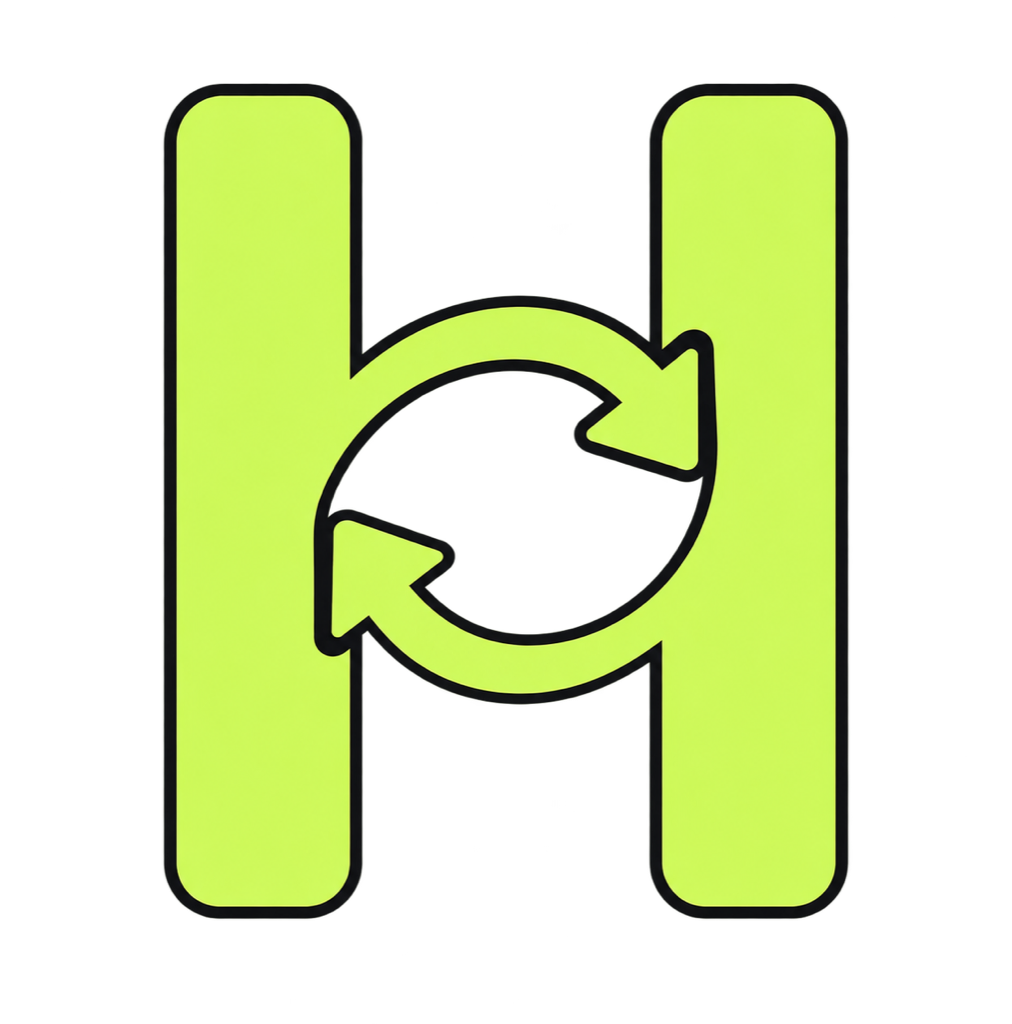
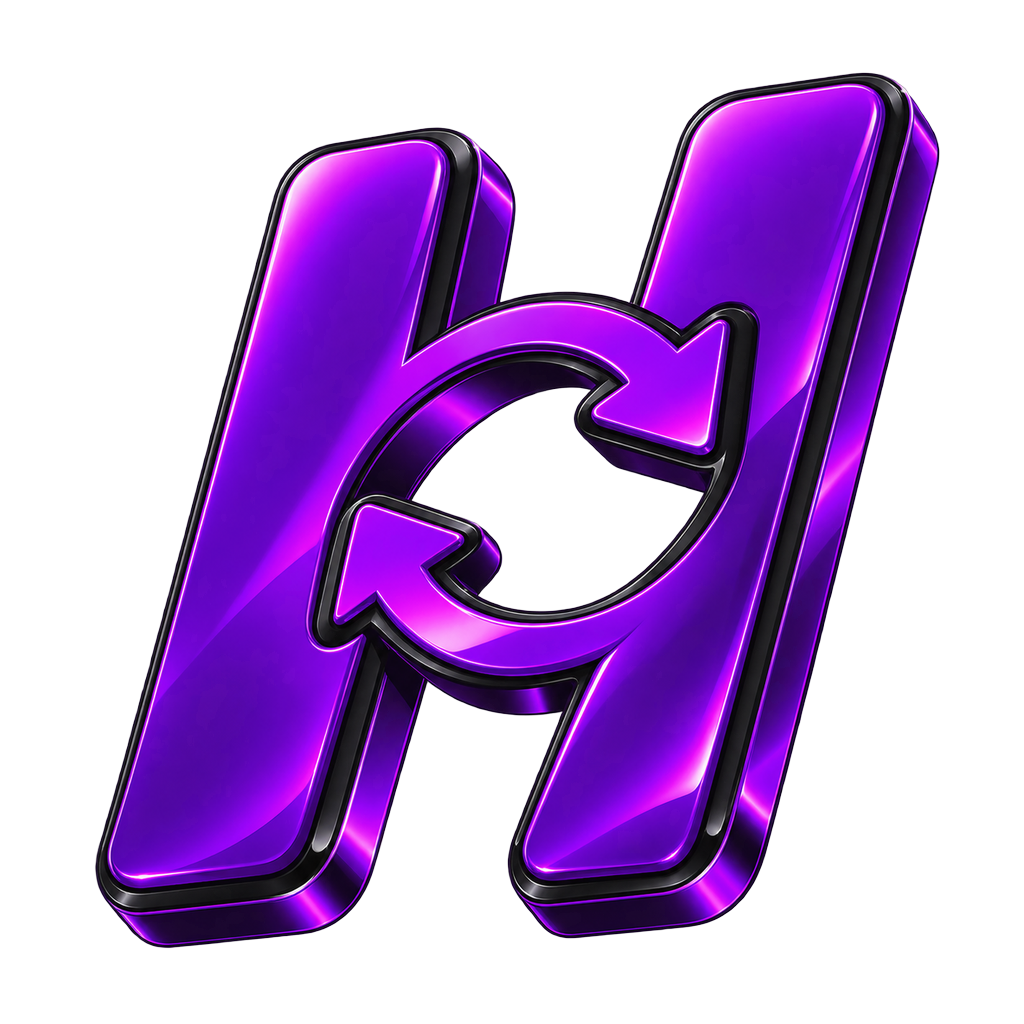
changed color to purple

diff --git a/src/styles.css b/src/styles.css
@@ -1,36 +1,39 @@
 
-/* Lime (#cef959) and the near-black tile are sampled straight from logo.png.
-   Dark is the base theme so the window never flashes white before the renderer
-   applies a stored preference. */
+/* Electric violet (#a301fa) and the violet-black bevel are sampled straight from
+   logo.png. Dark is the base theme so the window never flashes white before the
+   renderer applies a stored preference. */
 :root {
   color-scheme: dark;
   font-family: Inter, ui-sans-serif, system-ui, -apple-system, BlinkMacSystemFont, sans-serif;
   font-synthesis: none;
-  --bg: #0c0d0e;
-  --surface: #16171a;
-  --surface-raised: #1b1d20;
-  --surface-soft: #212429;
-  --text: #f2f4f1;
-  --muted: #9ea4a2;
-  --subtle: #6c7275;
+  --bg: #0b0810;
+  --surface: #15111d;
+  --surface-raised: #1a1524;
+  --surface-soft: #201a2c;
+  --text: #f4f1f8;
+  --muted: #a29aae;
+  --subtle: #736c7f;
   --line: rgba(255, 255, 255, .07);
   --line-strong: rgba(255, 255, 255, .15);
-  --fill: #cef959;
-  --fill-bright: #dcff7b;
-  --brand: #cef959;
-  --brand-soft: rgba(206, 249, 89, .13);
-  --accent-ink: #12160a;
-  --violet: #8b7cff;
-  --violet-soft: rgba(139, 124, 255, .16);
-  --success: #a8e75f;
-  --success-soft: rgba(168, 231, 95, .13);
+  --fill: #a301fa;
+  --fill-bright: #b833ff;
+  /* The fill is dark enough to carry white text, so --accent-ink is near-white
+     and --brand is lifted well above --fill: --brand is only ever ink or an icon
+     on a dark surface, where #a301fa would not clear 4.5:1. */
+  --brand: #c77dff;
+  --brand-soft: rgba(199, 125, 255, .14);
+  --accent-ink: #fdf9ff;
+  --aqua: #56d8f5;
+  --aqua-soft: rgba(86, 216, 245, .15);
+  --success: #57e08d;
+  --success-soft: rgba(87, 224, 141, .14);
   --danger: #ff6b81;
   --danger-soft: rgba(255, 107, 129, .14);
   --warning: #f2a03f;
   --warning-soft: rgba(242, 160, 63, .14);
-  --shadow: 0 28px 64px rgba(0, 0, 0, .55);
-  --small-shadow: 0 12px 28px rgba(0, 0, 0, .34);
-  --glow: 0 0 0 1px rgba(206, 249, 89, .26), 0 16px 40px rgba(206, 249, 89, .12);
+  --shadow: 0 28px 64px rgba(7, 2, 16, .62);
+  --small-shadow: 0 12px 28px rgba(7, 2, 16, .42);
+  --glow: 0 0 0 1px rgba(163, 1, 250, .34), 0 16px 40px rgba(163, 1, 250, .2);
   --radius-xl: 30px;
   --radius-lg: 24px;
   --radius-md: 18px;
@@ -39,28 +42,28 @@
 
 :root[data-theme='light'] {
   color-scheme: light;
-  --bg: #f4f5f2;
+  --bg: #f6f3fb;
   --surface: #ffffff;
   --surface-raised: #ffffff;
-  --surface-soft: #f1f3ed;
-  --text: #14170f;
-  --muted: #5d6458;
-  --subtle: #8a9184;
-  --line: #e5e8df;
-  --line-strong: #d2d7c9;
-  --brand: #5c7a12;
-  --brand-soft: rgba(122, 163, 24, .13);
-  --violet: #6a5ae0;
-  --violet-soft: rgba(106, 90, 224, .12);
-  --success: #4e8f1f;
-  --success-soft: rgba(78, 143, 31, .12);
+  --surface-soft: #f2edf9;
+  --text: #17111f;
+  --muted: #5e5670;
+  --subtle: #8b8399;
+  --line: #e7e1f0;
+  --line-strong: #d6cee4;
+  --brand: #7a12d4;
+  --brand-soft: rgba(122, 18, 212, .12);
+  --aqua: #0d7f9c;
+  --aqua-soft: rgba(13, 127, 156, .12);
+  --success: #1f8f4e;
+  --success-soft: rgba(31, 143, 78, .12);
   --danger: #cf4460;
   --danger-soft: rgba(207, 68, 96, .1);
   --warning: #b4700f;
   --warning-soft: rgba(180, 112, 15, .12);
-  --shadow: 0 24px 54px rgba(28, 38, 20, .1);
-  --small-shadow: 0 10px 24px rgba(28, 38, 20, .07);
-  --glow: 0 0 0 1px rgba(122, 163, 24, .22), 0 14px 32px rgba(122, 163, 24, .14);
+  --shadow: 0 24px 54px rgba(32, 16, 54, .12);
+  --small-shadow: 0 10px 24px rgba(32, 16, 54, .08);
+  --glow: 0 0 0 1px rgba(122, 18, 212, .22), 0 14px 32px rgba(122, 18, 212, .16);
 }
 * { box-sizing: border-box; }
 html, body, #root { height: 100%; margin: 0; }
@@ -76,12 +79,12 @@ button:focus-visible, select:focus-visible, [role='button']:focus-visible { outl
   display: grid;
   grid-template-rows: auto minmax(0, 1fr);
   overflow: hidden;
-  background: radial-gradient(46rem 30rem at 8% -8%, rgba(206, 249, 89, .07), transparent 70%), var(--bg);
+  background: radial-gradient(46rem 30rem at 8% -8%, rgba(163, 1, 250, .13), transparent 70%), var(--bg);
 }
 .app-chrome { height: 70px; padding: 0 clamp(18px, 3.6vw, 46px); display: flex; align-items: center; justify-content: space-between; gap: 16px; background: color-mix(in srgb, var(--bg) 82%, transparent); backdrop-filter: blur(20px); border-bottom: 1px solid var(--line); -webkit-app-region: drag; z-index: 10; }
 .brand, .chrome-actions, .icon-button, .pill-button, .ffmpeg-status { -webkit-app-region: no-drag; }
 .brand { display: flex; align-items: center; gap: 13px; min-width: 0; }
-.brand-mark { width: 44px; height: 44px; flex: 0 0 auto; border-radius: var(--radius-sm); overflow: hidden; border: 1px solid var(--line); background: #131314; }
+.brand-mark { width: 44px; height: 44px; flex: 0 0 auto; border-radius: var(--radius-sm); overflow: hidden; border: 1px solid var(--line); background: #120a1c; }
 .brand-mark img { display: block; width: 100%; height: 100%; object-fit: cover; }
 .brand > div:last-child { display: grid; gap: 1px; min-width: 0; }
 .brand strong { font: 700 15px/1.2 ui-rounded, system-ui, sans-serif; letter-spacing: -.2px; }
@@ -117,8 +120,11 @@ h1 { margin: 0; font: 800 clamp(23px, 2.2vw, 29px)/1.1 ui-rounded, system-ui, sa
 .stat-row { display: grid; grid-template-columns: repeat(3, minmax(0, 1fr)); gap: 13px; }
 .stat-card { position: relative; overflow: hidden; min-height: 108px; padding: 14px 16px; display: grid; grid-template-rows: auto 1fr auto; gap: 6px; border: 1px solid var(--line); border-radius: var(--radius-lg); background: var(--surface); }
 .stat-card::after { content: ''; position: absolute; top: -70px; right: -50px; width: 190px; height: 190px; border-radius: 50%; background: radial-gradient(circle, var(--brand-soft), transparent 68%); pointer-events: none; }
-.stat-card.featured { border-color: transparent; background: linear-gradient(150deg, var(--fill-bright), var(--fill) 58%, color-mix(in srgb, var(--fill) 82%, #7fa32a)); color: var(--accent-ink); box-shadow: 0 20px 44px rgba(206, 249, 89, .16); }
-.stat-card.featured::after { background: radial-gradient(circle, rgba(255, 255, 255, .34), transparent 66%); }
+/* The featured card is the largest block of brand colour on screen, so it runs
+   its own darker stops rather than --fill/--fill-bright, which are tuned for
+   small controls and would glare at this size. */
+.stat-card.featured { border-color: transparent; background: linear-gradient(150deg, #7b1fc7, #61129f 58%, #3d0177); color: var(--accent-ink); box-shadow: 0 20px 44px rgba(163, 1, 250, .2); }
+.stat-card.featured::after { background: radial-gradient(circle, rgba(255, 255, 255, .2), transparent 66%); }
 .stat-head { display: flex; align-items: center; gap: 11px; }
 .stat-chip { width: 34px; height: 34px; flex: 0 0 auto; display: grid; place-items: center; border-radius: 999px; color: var(--brand); background: var(--brand-soft); }
 .featured .stat-chip { color: var(--fill); background: var(--accent-ink); }
@@ -132,7 +138,7 @@ h1 { margin: 0; font: 800 clamp(23px, 2.2vw, 29px)/1.1 ui-rounded, system-ui, sa
 .stat-bars { display: flex; align-items: flex-end; gap: 3px; height: 26px; flex: 0 0 auto; }
 .stat-bars i { width: 5px; border-radius: 999px; background: var(--brand-soft); }
 .stat-bars i.peak { background: var(--brand); }
-.featured .stat-bars i { background: rgba(18, 22, 10, .18); }
+.featured .stat-bars i { background: rgba(255, 255, 255, .28); }
 .featured .stat-bars i.peak { background: var(--accent-ink); }
 .content-grid { flex: 1; min-height: 0; display: grid; grid-template-columns: minmax(0, 1fr) 340px; gap: 14px; align-items: stretch; }
 .main-column { min-width: 0; min-height: 0; display: grid; grid-template-rows: auto minmax(0, 1fr); gap: 14px; }
@@ -153,7 +159,7 @@ h2 { margin: 0; font: 700 15px/1.3 ui-rounded, system-ui, sans-serif; letter-spa
 /* With an empty queue the zone owns the rest of the panel, so the invitation to
    add files is the only thing in it. */
 .dropzone.empty { grid-row: 2 / -1; grid-template-columns: minmax(0, 1fr); grid-auto-rows: min-content; align-content: center; justify-items: center; text-align: center; gap: 12px; padding: 26px; background: radial-gradient(24rem 14rem at 50% 0%, var(--brand-soft), transparent 74%), var(--surface-soft); }
-.drop-art { width: 78px; height: 78px; border-radius: 24px; overflow: hidden; border: 1px solid var(--line); background: #131314; }
+.drop-art { width: 78px; height: 78px; border-radius: 24px; overflow: hidden; border: 1px solid var(--line); background: #120a1c; }
 .drop-art img { display: block; width: 100%; height: 100%; object-fit: cover; }
 .upload-icon { width: 46px; height: 46px; flex: 0 0 auto; border-radius: 999px; display: grid; place-items: center; color: var(--brand); background: var(--brand-soft); }
 .dropzone.compact .upload-icon { width: 42px; height: 42px; }
@@ -172,7 +178,7 @@ h2 { margin: 0; font: 700 15px/1.3 ui-rounded, system-ui, sans-serif; letter-spa
 .queue-row:hover { border-color: var(--line-strong); transform: translateY(-1px); box-shadow: var(--small-shadow); }
 .file-kind { width: 46px; height: 46px; display: grid; place-items: center; border-radius: 999px; }
 .kind-video { color: var(--brand); background: var(--brand-soft); }
-.kind-audio { color: var(--violet); background: var(--violet-soft); }
+.kind-audio { color: var(--aqua); background: var(--aqua-soft); }
 .kind-image { color: var(--warning); background: var(--warning-soft); }
 .file-info { min-width: 0; }
 .file-title { display: flex; align-items: center; gap: 9px; }
@@ -233,12 +239,12 @@ h2 { margin: 0; font: 700 15px/1.3 ui-rounded, system-ui, sans-serif; letter-spa
 .folder-picker svg:last-child { color: var(--subtle); }
 
 .about-dialog { width: min(88vw, 396px); padding: 0; border: 0; background: transparent; color: var(--text); }
-.about-dialog::backdrop { background: rgba(4, 5, 6, .68); backdrop-filter: blur(5px); }
-.dialog-inner { position: relative; display: grid; gap: 16px; padding: 26px 24px 24px; border: 1px solid var(--line-strong); border-radius: var(--radius-xl); background: var(--surface); box-shadow: 0 34px 90px rgba(0, 0, 0, .55); }
+.about-dialog::backdrop { background: rgba(6, 2, 14, .7); backdrop-filter: blur(5px); }
+.dialog-inner { position: relative; display: grid; gap: 16px; padding: 26px 24px 24px; border: 1px solid var(--line-strong); border-radius: var(--radius-xl); background: var(--surface); box-shadow: 0 34px 90px rgba(7, 2, 16, .62); }
 .dialog-close { position: absolute; top: 14px; right: 14px; width: 30px; height: 30px; display: grid; place-items: center; border: 0; border-radius: 999px; background: transparent; color: var(--subtle); cursor: pointer; transition: color .2s, background .2s; }
 .dialog-close:hover { color: var(--text); background: var(--surface-soft); }
 .about-head { display: grid; justify-items: center; gap: 9px; text-align: center; }
-.about-mark { width: 56px; height: 56px; border-radius: 18px; overflow: hidden; border: 1px solid var(--line); background: #131314; }
+.about-mark { width: 56px; height: 56px; border-radius: 18px; overflow: hidden; border: 1px solid var(--line); background: #120a1c; }
 .about-mark img { display: block; width: 100%; height: 100%; object-fit: cover; }
 .about-head h2 { font-size: 17px; }
 .about-head p { margin: 0; color: var(--muted); font-size: 11px; }
@@ -248,8 +254,8 @@ h2 { margin: 0; font: 700 15px/1.3 ui-rounded, system-ui, sans-serif; letter-spa
 .about-facts dd { margin: 4px 0 0; color: var(--muted); font-size: 11px; line-height: 1.55; overflow-wrap: anywhere; }
 
 .conversion-action { padding-top: 14px; margin-top: 13px; border-top: 1px solid var(--line); }
-.convert-button { width: 100%; min-height: 52px; display: flex; align-items: center; justify-content: center; gap: 9px; border: 0; border-radius: 999px; background: var(--fill); color: var(--accent-ink); font-weight: 800; font-size: 13px; letter-spacing: -.1px; cursor: pointer; box-shadow: 0 16px 34px rgba(206, 249, 89, .16); transition: background .2s, transform .2s, box-shadow .2s; }
-.convert-button:not(:disabled):hover { background: var(--fill-bright); transform: translateY(-1px); box-shadow: 0 20px 40px rgba(206, 249, 89, .22); }
+.convert-button { width: 100%; min-height: 52px; display: flex; align-items: center; justify-content: center; gap: 9px; border: 0; border-radius: 999px; background: var(--fill); color: var(--accent-ink); font-weight: 800; font-size: 13px; letter-spacing: -.1px; cursor: pointer; box-shadow: 0 16px 34px rgba(163, 1, 250, .3); transition: background .2s, transform .2s, box-shadow .2s; }
+.convert-button:not(:disabled):hover { background: var(--fill-bright); transform: translateY(-1px); box-shadow: 0 20px 40px rgba(163, 1, 250, .38); }
 .convert-button:disabled { cursor: not-allowed; opacity: .32; box-shadow: none; }
 .conversion-action p { margin: 9px 6px 0; text-align: center; color: var(--subtle); font-size: 10px; }
 .spin { animation: spin .9s linear infinite; }

diff --git a/index.html b/index.html
@@ -3,7 +3,7 @@
   <head>
     <meta charset="UTF-8" />
     <meta name="viewport" content="width=device-width, initial-scale=1.0" />
-    <meta name="theme-color" content="#0c0d0e" />
+    <meta name="theme-color" content="#0b0810" />
     <link rel="icon" type="image/png" href="./src/assets/logo.png" />
     <meta http-equiv="Content-Security-Policy" content="default-src 'self'; script-src 'self'; style-src 'self' 'unsafe-inline'; img-src 'self' data:; font-src 'self'; connect-src 'self' ws://localhost:* ws://127.0.0.1:*" />
     <meta name="description" content="Hope Converter — private, local media conversion." />

diff --git a/electron/main.ts b/electron/main.ts
@@ -30,7 +30,7 @@ function createWindow(): void {
     minWidth: 900,
     minHeight: 600,
     show: false,
-    backgroundColor: '#0c0d0e',
+    backgroundColor: '#0b0810',
     icon: resolveWindowIcon(),
     webPreferences: {
       preload: join(currentDirectory, '../preload/preload.cjs'),

diff --git a/README.md b/README.md
@@ -20,7 +20,7 @@ The application is functional end to end:
 - Hardware encoding and a configurable 1–4 job concurrency limit, persisted between launches
 - Codec-specific tuning for VideoToolbox, NVENC, QSV, VP9, x264, and x265
 - Single-viewport layout: the page never scrolls, only the file list and settings body do
-- Light and dark themes with a custom lime design system
+- Light and dark themes with a custom violet design system
 - About dialog carrying the FFmpeg version and the story behind the name
 - Secure, allowlisted IPC bridge
 - Unit tests for command generation, parsing, file handling, conversion lifecycle, hardware detection, settings persistence, and queue state, plus a separate integration suite
